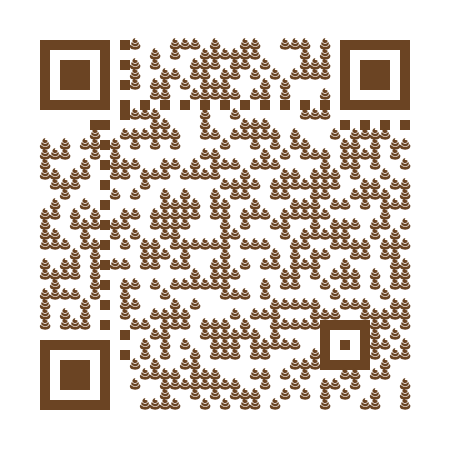
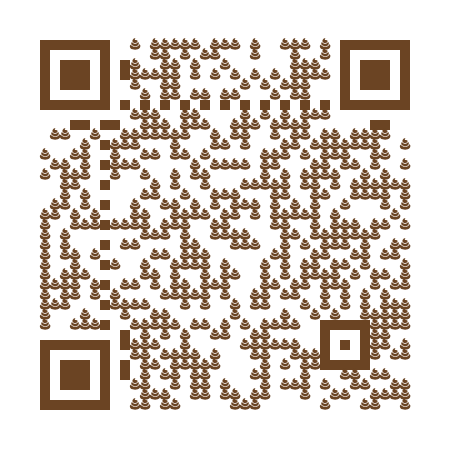
Point everything at tagadvance/staticqr
The repository name now matches the domain, without the hyphen. Badges,
footer, package metadata and the git remote follow, and both generated
images were rebuilt because the repository URL is encoded inside the QR
code itself.

The domain was already correct everywhere; only the repository moved.

diff --git a/README.md b/README.md
@@ -1,7 +1,7 @@
 # Static QR
 
-[![CI](https://github.com/tagadvance/static-qr/actions/workflows/ci.yml/badge.svg)](https://github.com/tagadvance/static-qr/actions/workflows/ci.yml)
-[![Deploy to Pages](https://github.com/tagadvance/static-qr/actions/workflows/pages.yml/badge.svg)](https://github.com/tagadvance/static-qr/actions/workflows/pages.yml)
+[![CI](https://github.com/tagadvance/staticqr/actions/workflows/ci.yml/badge.svg)](https://github.com/tagadvance/staticqr/actions/workflows/ci.yml)
+[![Deploy to Pages](https://github.com/tagadvance/staticqr/actions/workflows/pages.yml/badge.svg)](https://github.com/tagadvance/staticqr/actions/workflows/pages.yml)
 [![License: MIT](https://img.shields.io/badge/license-MIT-blue.svg)](LICENSE)
 [![Site](https://img.shields.io/badge/site-staticqr.com-6b4423)](https://staticqr.com)
 [![Sponsor](https://img.shields.io/badge/sponsor-%E2%9D%A4-db61a2)](https://github.com/sponsors/tagadvance)
